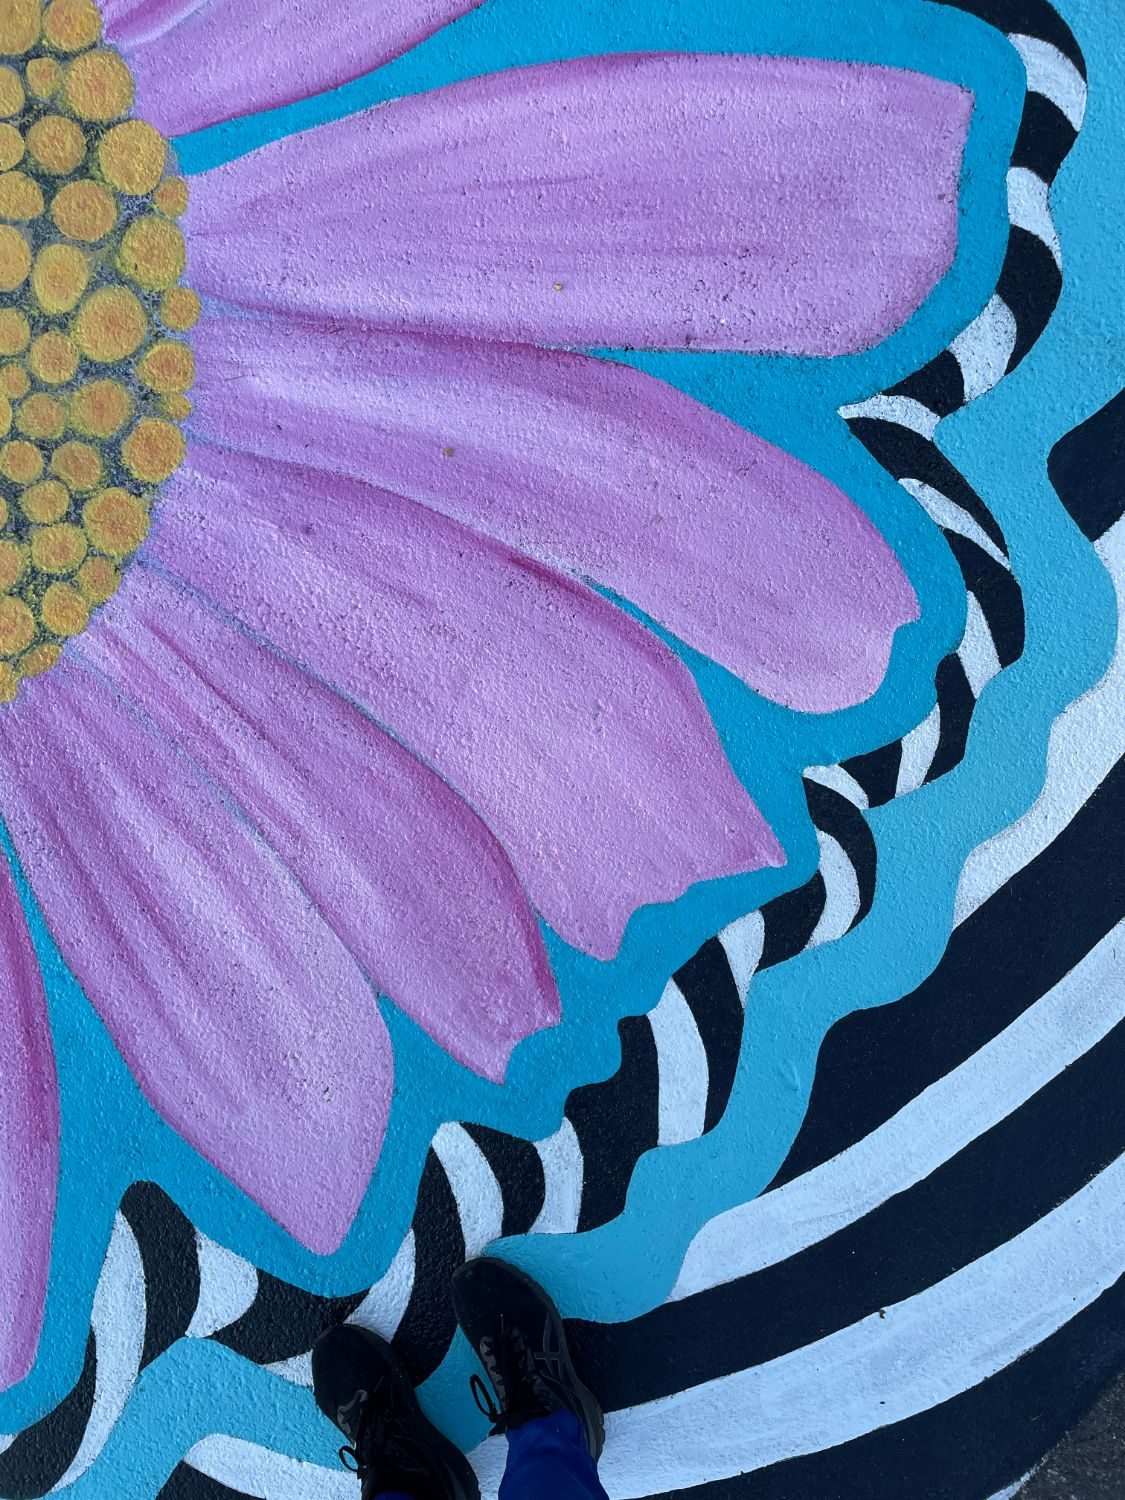
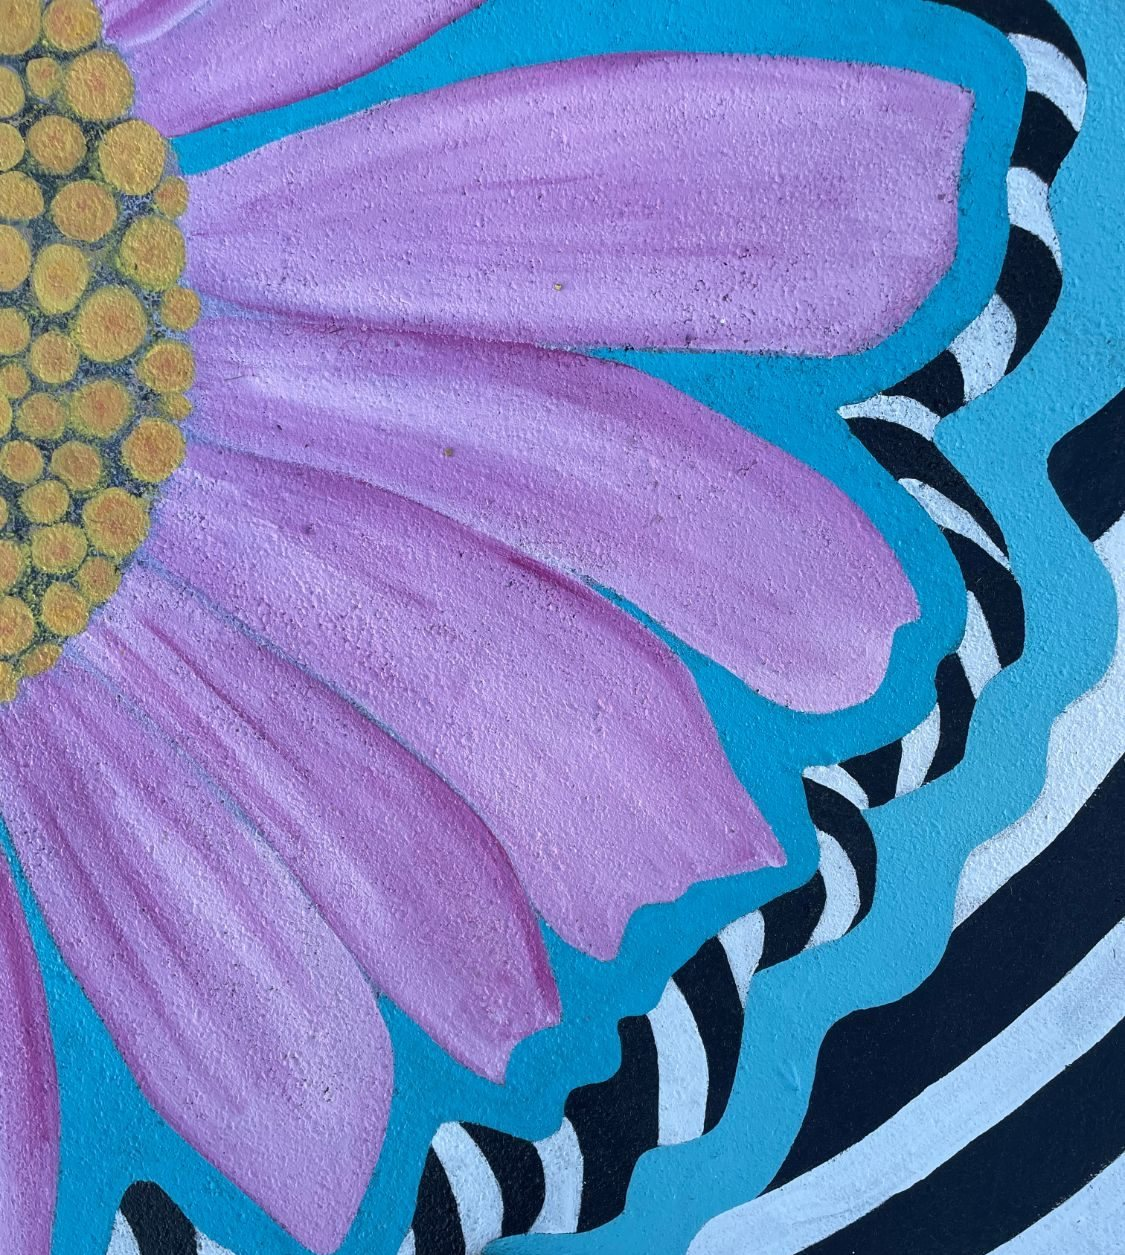
Crop the feet out of the coneflower photo on 'Ohio Native Flowers'
The full-size coneflower photo further down the page is trimmed at the
bottom so the shoes are out of frame, and its description no longer
mentions them.

Claude-Session: https://claude.ai/code/session_01SzxqDHBUoWtS3pde7owWaF

diff --git a/src/content/artworks/ohio-native-flowers/index.md b/src/content/artworks/ohio-native-flowers/index.md
@@ -20,7 +20,7 @@ I painted the four corners of the Amesville Elementary Running Club's route, so 
 
 ![A woman crouched on the white-primed trillium mural, brushing red paint along one of the outlines](./05.jpg)
 
-![Close overhead view of the finished coneflower, its pink petals and yellow center against the blue and black-and-white striped rings, my feet at the edge](./10.jpg)
+![Close overhead view of the finished coneflower, its pink petals and yellow center against the blue and black-and-white striped rings](./10.jpg)
 
 <div class="sketch-row">
 
